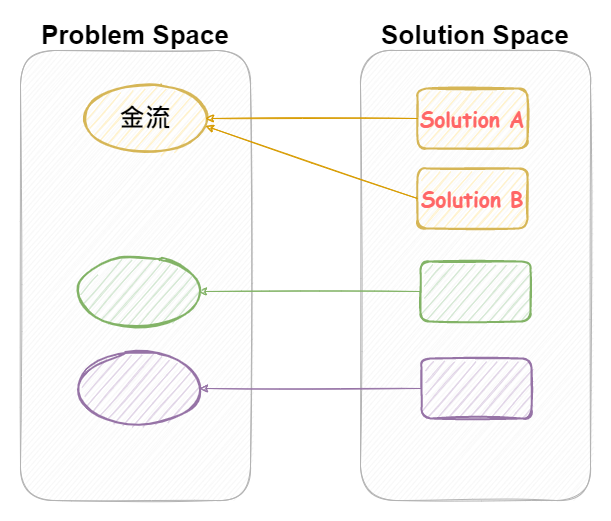
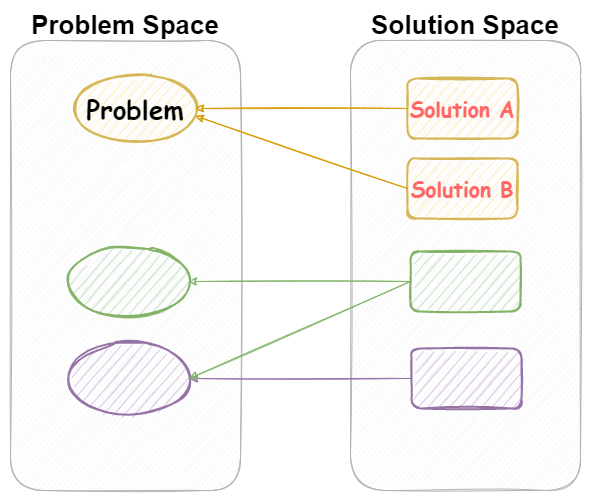
Edit: 「聊聊名詞 | 問題域與解決方案」定稿

diff --git a/content/post/Nouns/problem-solution-domain/index.md b/content/post/Nouns/problem-solution-domain/index.md
@@ -1,6 +1,6 @@
 ---
 title: 聊聊名詞 | 問題領域與解決方案領域 | Problem & Solution Domain
-description: null
+description: 將以特定知識或專案為前提條件，需要處理或解決的問題，將其稱為問題域，而問題域的集合則稱為問題空間。相同的。解決特定問題域的解決方案，被稱為解決方案域，而解決方案的集合被稱為解決方案空間。
 date: 2023-01-19T03:31:30.645Z
 keywords:
   - Problem Domain
@@ -11,7 +11,6 @@ tags:
   - Domain
   - DDD
 slug: problem-and-solution-domain
-draft: true
 categories:
   - 聊聊名詞
 ---
@@ -25,9 +24,9 @@ categories:
 > - **Domain**: 特定知識或專業為基礎的範圍。
 > - **Context**: 指特定事物的背景與先決條件。
 > - **Problem Domain**: 以特定知識或專案為前提條件，需要處理或解決的問題。一個問題可能會有多組的解決方案。
-> - **Poboblem Space**: 所有待處決或問題的集合。
+> - **Poboblem Space**: 所有可能的問題集合。
 > - **Solution Domain**: 以問題所屬的領域為主，針對性的解決方案。一個解決方案，也可能應用到多個問題域。
-> - **Solutton Space**: 所有解決方案的集合。
+> - **Solutton Space**: 所有可能解決方案的集合。
 
 <!--more-->
 
@@ -35,17 +34,15 @@ categories:
 
 一開始，先來聊聊 `領域(Domain)` 的概念。
 
-以真實世界為例，存在的許多專業的知識，比如說金融、房地產、法律、電機、製造或電子商務。這些知識，在我們日常生活中，也許多少都會有機會去接觸，但大部份旳人都沒有深入去理解。
-
-將這些專業知識，以其專業的領域進行區分，並加以視覺化，如下圖。
+以真實世界為例，存在的許多專業的知識，比如說金融、房地產、法律、電機、製造或電子商務。這些知識，在我們日常生活中，也許多少都會有機會去接觸，但大部份旳人都沒有深入去理解。若簡略將這些專業知識，以其專業的領域進行區分，並加以視覺化，如下圖。
 
 ![真實世界中的眾多專業領域](Images/real-world-domain.png)
 
 但是，就算兩個人都身處金融領域，也不表示兩個人就可以順利的互相交流。沒有人可以全盤知道領域之中所有的知識。
 
-// 圖, 兩個人, 在溝通, 一個是放款領域, 一個是股票
+![兩人的話題不在同一條線上](Images/what-are-you-saying.png)
 
-就更不用說，在不同的領域之中，相同的名詞背後代表的意思完全是不同的。
+就更不用說，在不同的領域之中，會出現相同的名詞，背後代表的意思，卻完全不同。
 
 以金融業而言，光是 `帳戶` 這個名詞，又可以分成銀行帳戶、股票帳戶、基金帳戶、放款帳戶、借貸帳戶等等，每個帳戶著重的重點也不盡相同。
 
@@ -101,13 +98,13 @@ categories:
 
 ### 兩者之間的關係
 
-不過當我們再找解決方案的時候，通常不會只有一組唯一解。大多時間，我們可能會找出或是提出 2 到 3 組的解決方案，並從中評估解決方案的優缺點，最終選擇一個最符合當下情境的最終決策。
+不過當我們再找解決方案的時候，通常不會只有一組唯一解。大多時間，我們可能會找出 2 到 3 組可能的解決方案，並從中評估解決方案的優缺點，最終選擇一個最符合當下情境的最終決策。
 
 ![一個問題可能有多種的解決方案](Images/one-problem-and-more-solution.png)
 
 有時，我們會發現某些解決方案，也可以應用到其他不同的問題上。
 
-// 增加圖示與例子
+就像 Toyota Production System, TPS 豐田生產系統，原本只是要解決線的產率良莠不齊，以及生產的消費情況。其中使用的 Kanban 的解決方案，被發現適用於 IT 的開發的管理問題。不難看出，單一個解決方案，也有可能適用於一個到多個的問題域。
 
 ## Space
 
@@ -130,3 +127,4 @@ categories:
 ▶ 外部文章
 
 - [區分 DDD 中的 Domain, Subdomain, Bounded Context, Problem/Solution Space - 騰訊雲開發者社區](https://cloud.tencent.com/developer/article/1844134)
+- [Problem Space and Solution Space – The Solution Space](https://solutionspace.blog/2021/10/29/problem-space-and-solution-space/)
